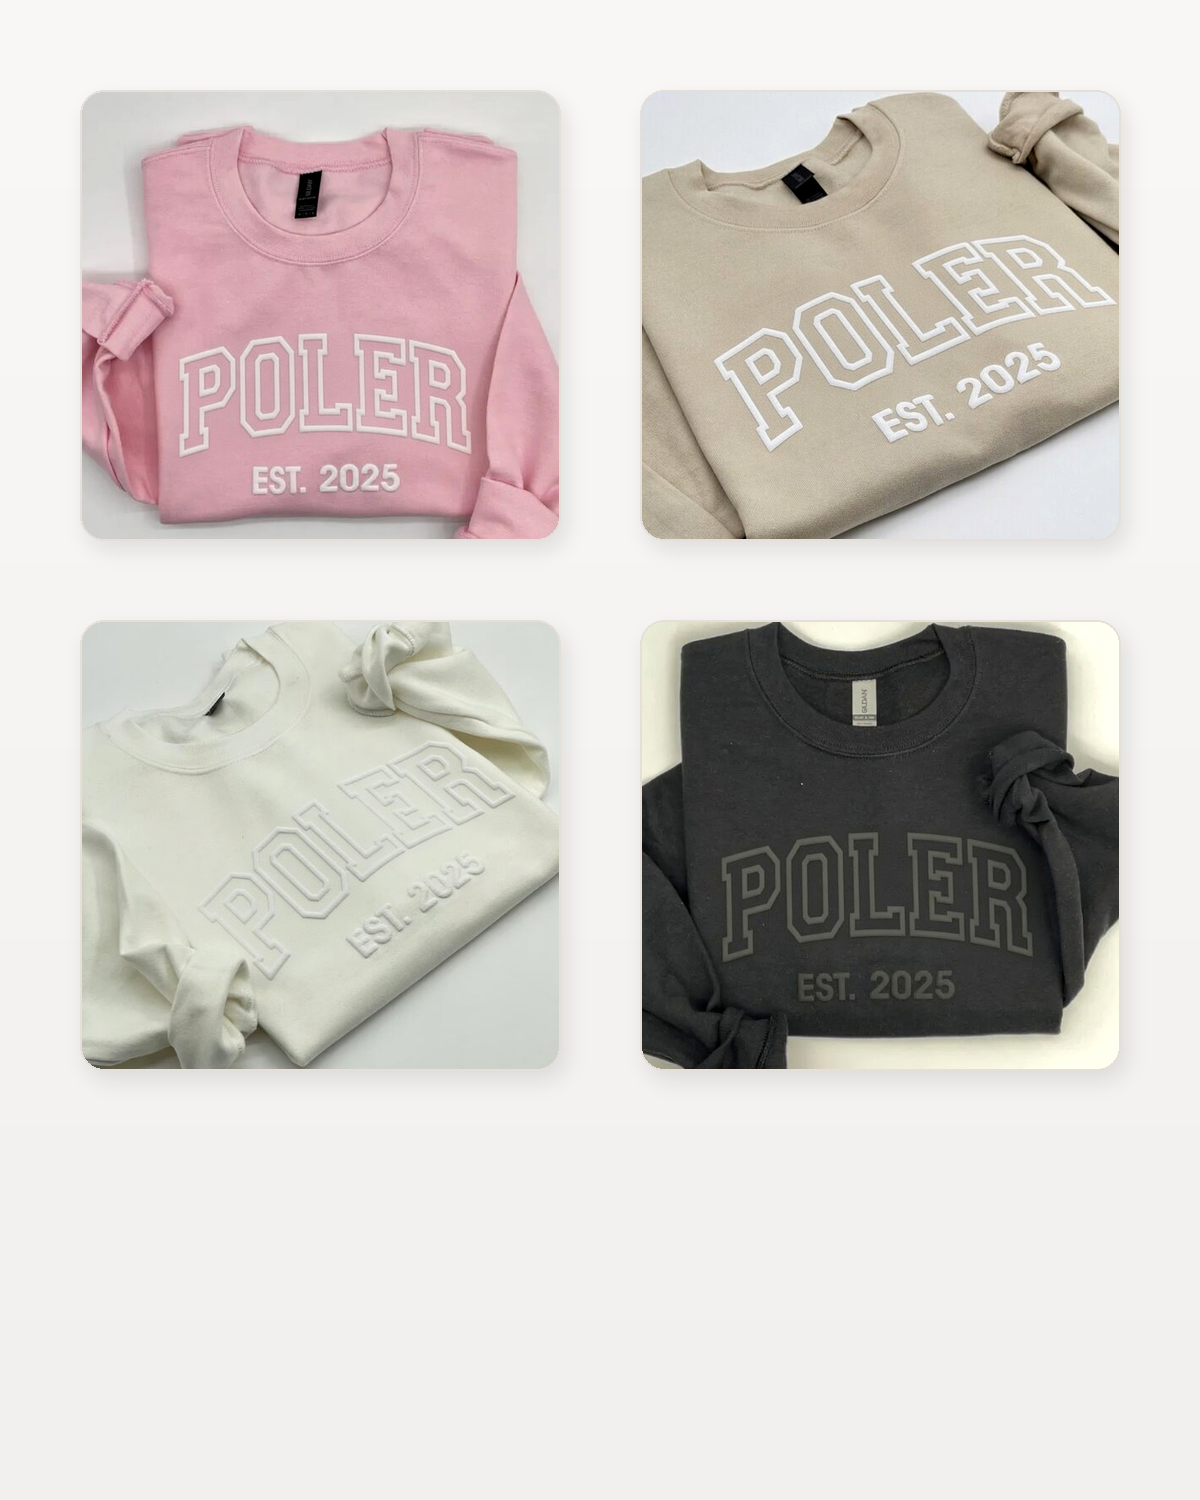
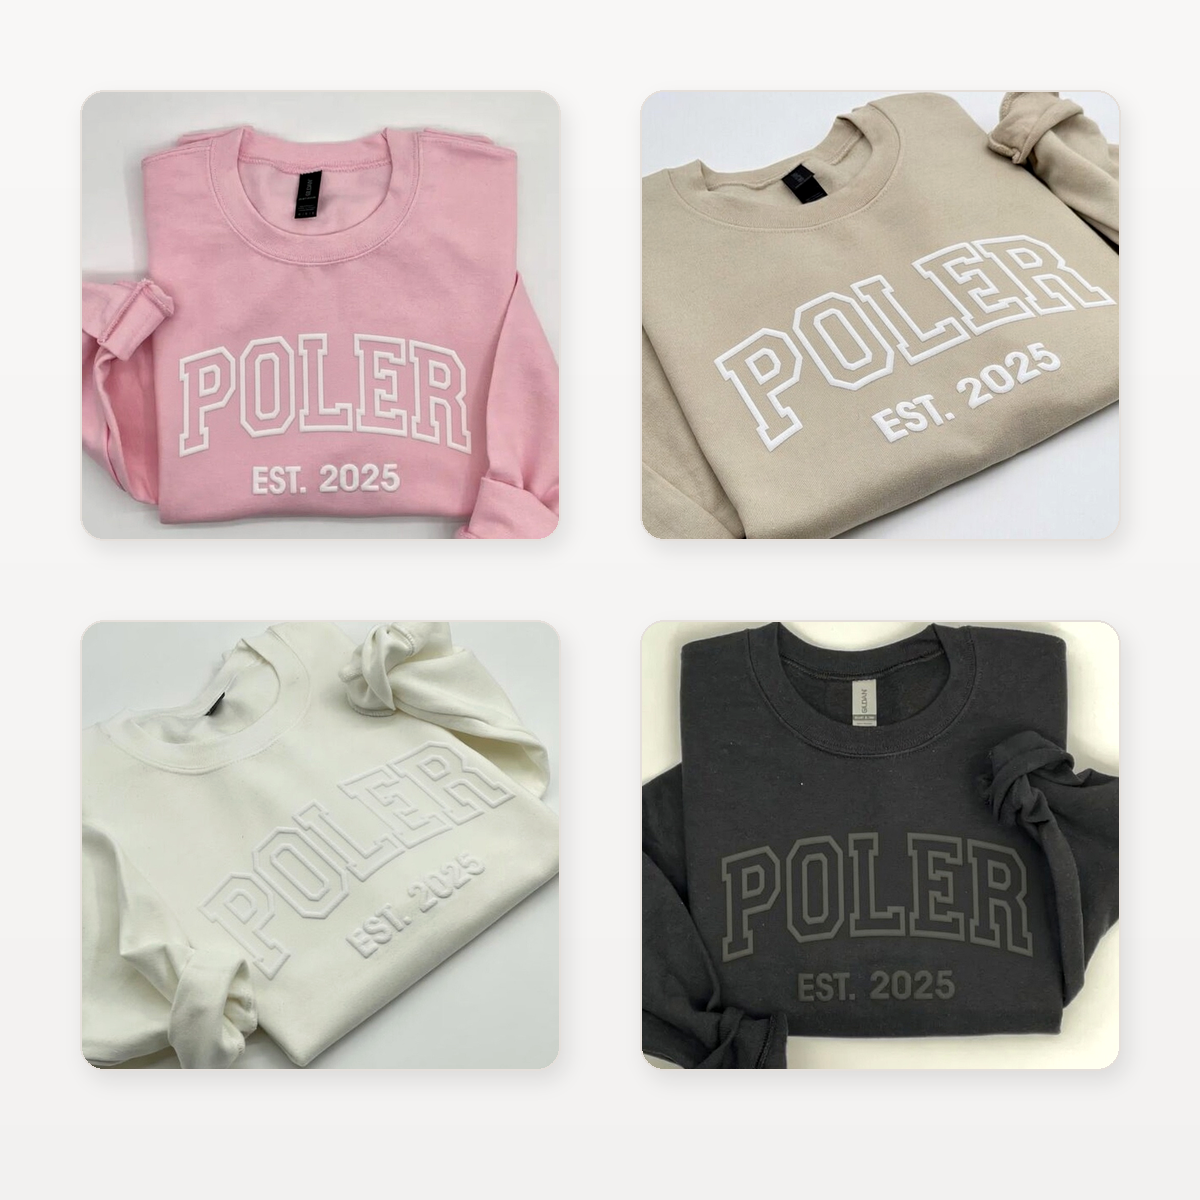
Center Authentically Yours tile without shrinking

diff --git a/oncloudnine-preview/index.html b/oncloudnine-preview/index.html
@@ -43,7 +43,6 @@
     }
     .card { display: flex; flex-direction: column; }
     .card img { width: 100%; display: block; aspect-ratio: 1/1; object-fit: cover; background: #fff; }
-    .card img.equal-border { object-fit: contain; object-position: center; padding: 1.1rem; }
     .card-copy { padding: 1.15rem 1rem 1.25rem; text-align: center; display: flex; flex-direction: column; flex: 1; }
     .card h3 { font-size: 1.7rem; margin-bottom: .55rem; }
     .price { font-size: 1rem; font-weight: 700; color: var(--accent); margin-bottom: .55rem; }
@@ -94,7 +93,7 @@
           </div>
         </article>
         <article class="card">
-          <img class="equal-border" src="../preview-tile-authentically-yours.png" alt="Authentically Yours crewneck preview" />
+          <img src="../preview-tile-authentically-yours.png" alt="Authentically Yours crewneck preview" />
           <div class="card-copy">
             <h3>Authentically Yours Crewneck</h3>
             <div class="price">$43 with credit card or $40 via email and using the app</div>

diff --git a/oncloudnine/index.html b/oncloudnine/index.html
@@ -42,7 +42,6 @@
     }
     .card { display: flex; flex-direction: column; }
     .card img { width: 100%; display: block; aspect-ratio: 1/1; object-fit: cover; background: #fff; }
-    .card img.equal-border { object-fit: contain; object-position: center; padding: 1.1rem; }
     .card-copy { padding: 1.15rem 1rem 1.25rem; text-align: center; display: flex; flex-direction: column; flex: 1; }
     .card h3 { font-size: 1.7rem; margin-bottom: .55rem; }
     .price { font-size: 1rem; font-weight: 700; color: var(--accent); margin-bottom: .55rem; }
@@ -93,7 +92,7 @@
           </div>
         </article>
         <article class="card">
-          <img class="equal-border" src="../preview-tile-authentically-yours.png" alt="Authentically Yours crewneck preview" />
+          <img src="../preview-tile-authentically-yours.png" alt="Authentically Yours crewneck preview" />
           <div class="card-copy">
             <h3>Authentically Yours Crewneck</h3>
             <div class="price">$43 with credit card or $40 via email and using the app</div>

diff --git a/oncloudnine-preview.html b/oncloudnine-preview.html
@@ -43,7 +43,6 @@
     }
     .card { display: flex; flex-direction: column; }
     .card img { width: 100%; display: block; aspect-ratio: 1/1; object-fit: cover; background: #fff; }
-    .card img.equal-border { object-fit: contain; object-position: center; padding: 1.1rem; }
     .card-copy { padding: 1.15rem 1rem 1.25rem; text-align: center; display: flex; flex-direction: column; flex: 1; }
     .card h3 { font-size: 1.7rem; margin-bottom: .55rem; }
     .price { font-size: 1rem; font-weight: 700; color: var(--accent); margin-bottom: .55rem; }
@@ -94,7 +93,7 @@
           </div>
         </article>
         <article class="card">
-          <img class="equal-border" src="preview-tile-authentically-yours.png" alt="Authentically Yours crewneck preview" />
+          <img src="preview-tile-authentically-yours.png" alt="Authentically Yours crewneck preview" />
           <div class="card-copy">
             <h3>Authentically Yours Crewneck</h3>
             <div class="price">$43 with credit card or $40 via email and using the app</div>

diff --git a/oncloudnine.html b/oncloudnine.html
@@ -42,7 +42,6 @@
     }
     .card { display: flex; flex-direction: column; }
     .card img { width: 100%; display: block; aspect-ratio: 1/1; object-fit: cover; background: #fff; }
-    .card img.equal-border { object-fit: contain; object-position: center; padding: 1.1rem; }
     .card-copy { padding: 1.15rem 1rem 1.25rem; text-align: center; display: flex; flex-direction: column; flex: 1; }
     .card h3 { font-size: 1.7rem; margin-bottom: .55rem; }
     .price { font-size: 1rem; font-weight: 700; color: var(--accent); margin-bottom: .55rem; }
@@ -93,7 +92,7 @@
           </div>
         </article>
         <article class="card">
-          <img class="equal-border" src="preview-tile-authentically-yours.png" alt="Authentically Yours crewneck preview" />
+          <img src="preview-tile-authentically-yours.png" alt="Authentically Yours crewneck preview" />
           <div class="card-copy">
             <h3>Authentically Yours Crewneck</h3>
             <div class="price">$43 with credit card or $40 via email and using the app</div>
